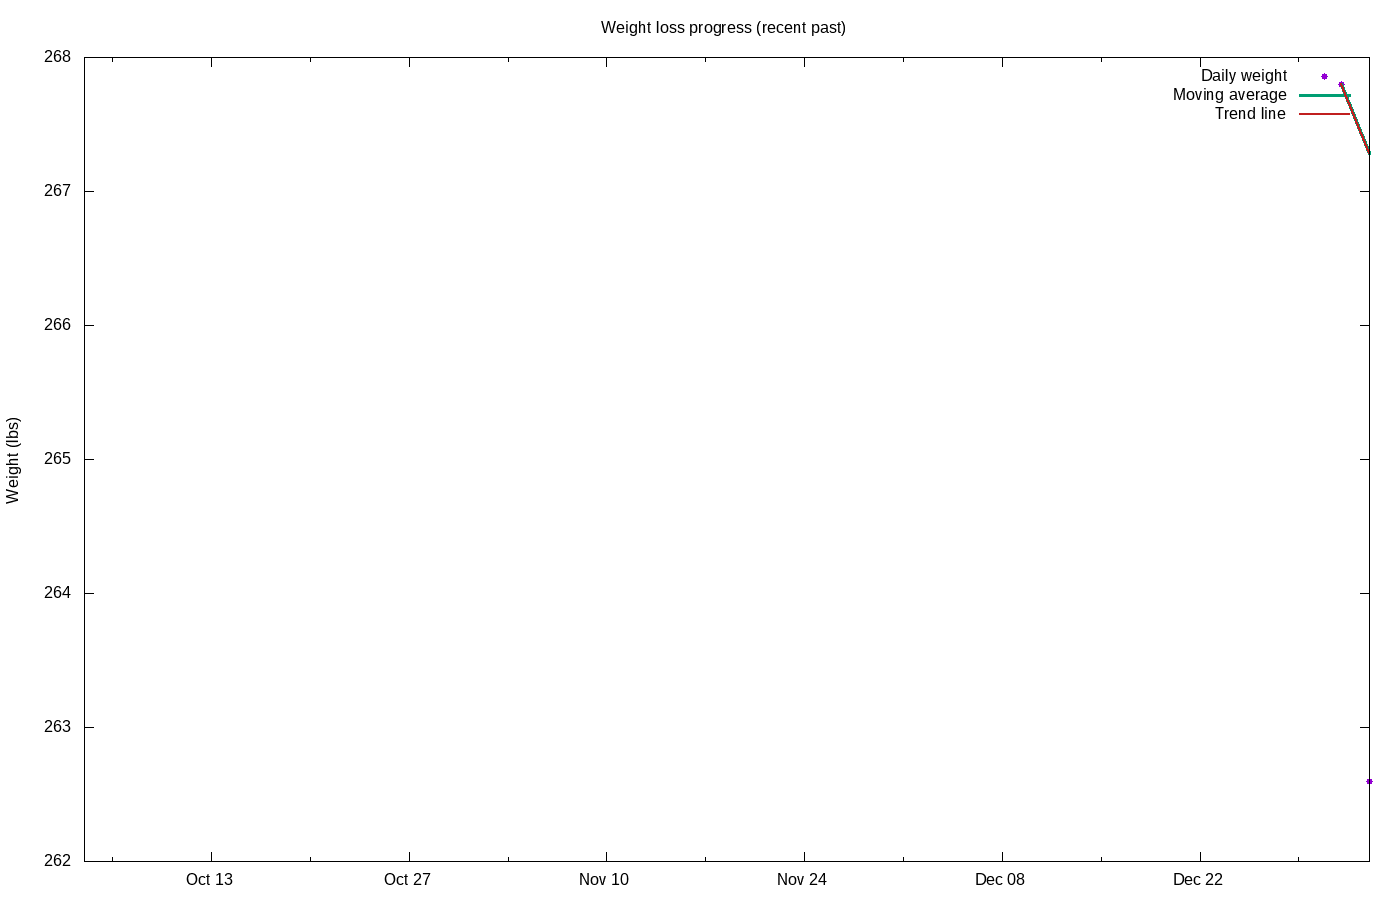
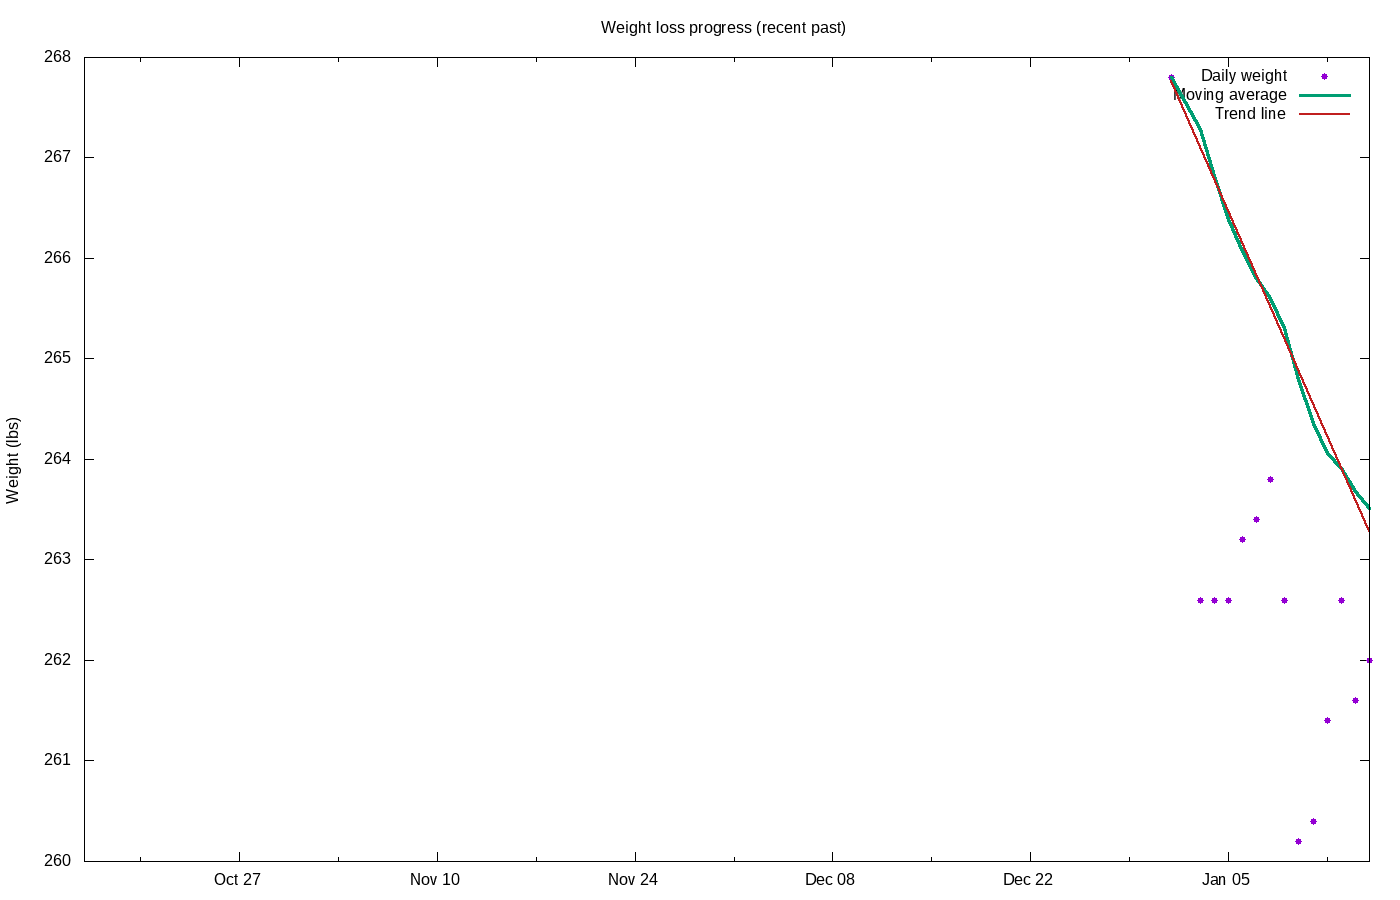
Update for 2023-01-15

diff --git a/README.md b/README.md
@@ -1,32 +1,32 @@
 # Weight loss progress
 
-Calculating trend using 2 data points, 2023-01-01 to 2023-01-03
+Calculating trend using 14 data points, 2023-01-01 to 2023-01-15
 
 ## Stats
 
 Stat|Value
 :-|:-
 **Goal**|240.00 lbs on 2023-12-31
-**Current weight**|267.28 lbs
-**BMI**|33.23
-**Lost so far**|0.52 lbs =  0.19% of starting weight
-**Remaining**|27.28 lbs = 10.21% of current  weight
-**Progress**|1.87%
-**Required rate**|0.53 lbs / wk = 0.20% per week
-**Actual rate**|1.82 lbs / wk = 0.68% per week  (r<sup>2</sup> = 1.00)
-**Deficit**|910 kcal / day
-**Target adjust**|646 kcal / day
-**Total burned**|1820 kcal
-**Goal reached**|2023-04-17 (258 days early)
-**Days done**|3
-**Days remaining**|104
+**Current weight**|263.51 lbs
+**BMI**|32.76
+**Lost so far**|4.29 lbs =  1.60% of starting weight
+**Remaining**|23.51 lbs =  8.92% of current  weight
+**Progress**|15.42%
+**Required rate**|0.47 lbs / wk = 0.18% per week
+**Actual rate**|2.24 lbs / wk = 0.85% per week  (r<sup>2</sup> = 0.99)
+**Deficit**|1119 kcal / day
+**Target adjust**|884 kcal / day
+**Total burned**|15003 kcal
+**Goal reached**|2023-03-29 (277 days early)
+**Days done**|15
+**Days remaining**|73
 
 ## Projections
 
 Date|Projected weight|Loss
 :-|:-|:-
-**2023-07-01**|220.74|47.06
-**2023-12-31**|173.16|94.64
+**2023-07-01**|210.08|57.72
+**2023-12-31**|151.54|116.26
 
 ## Graphs
 
